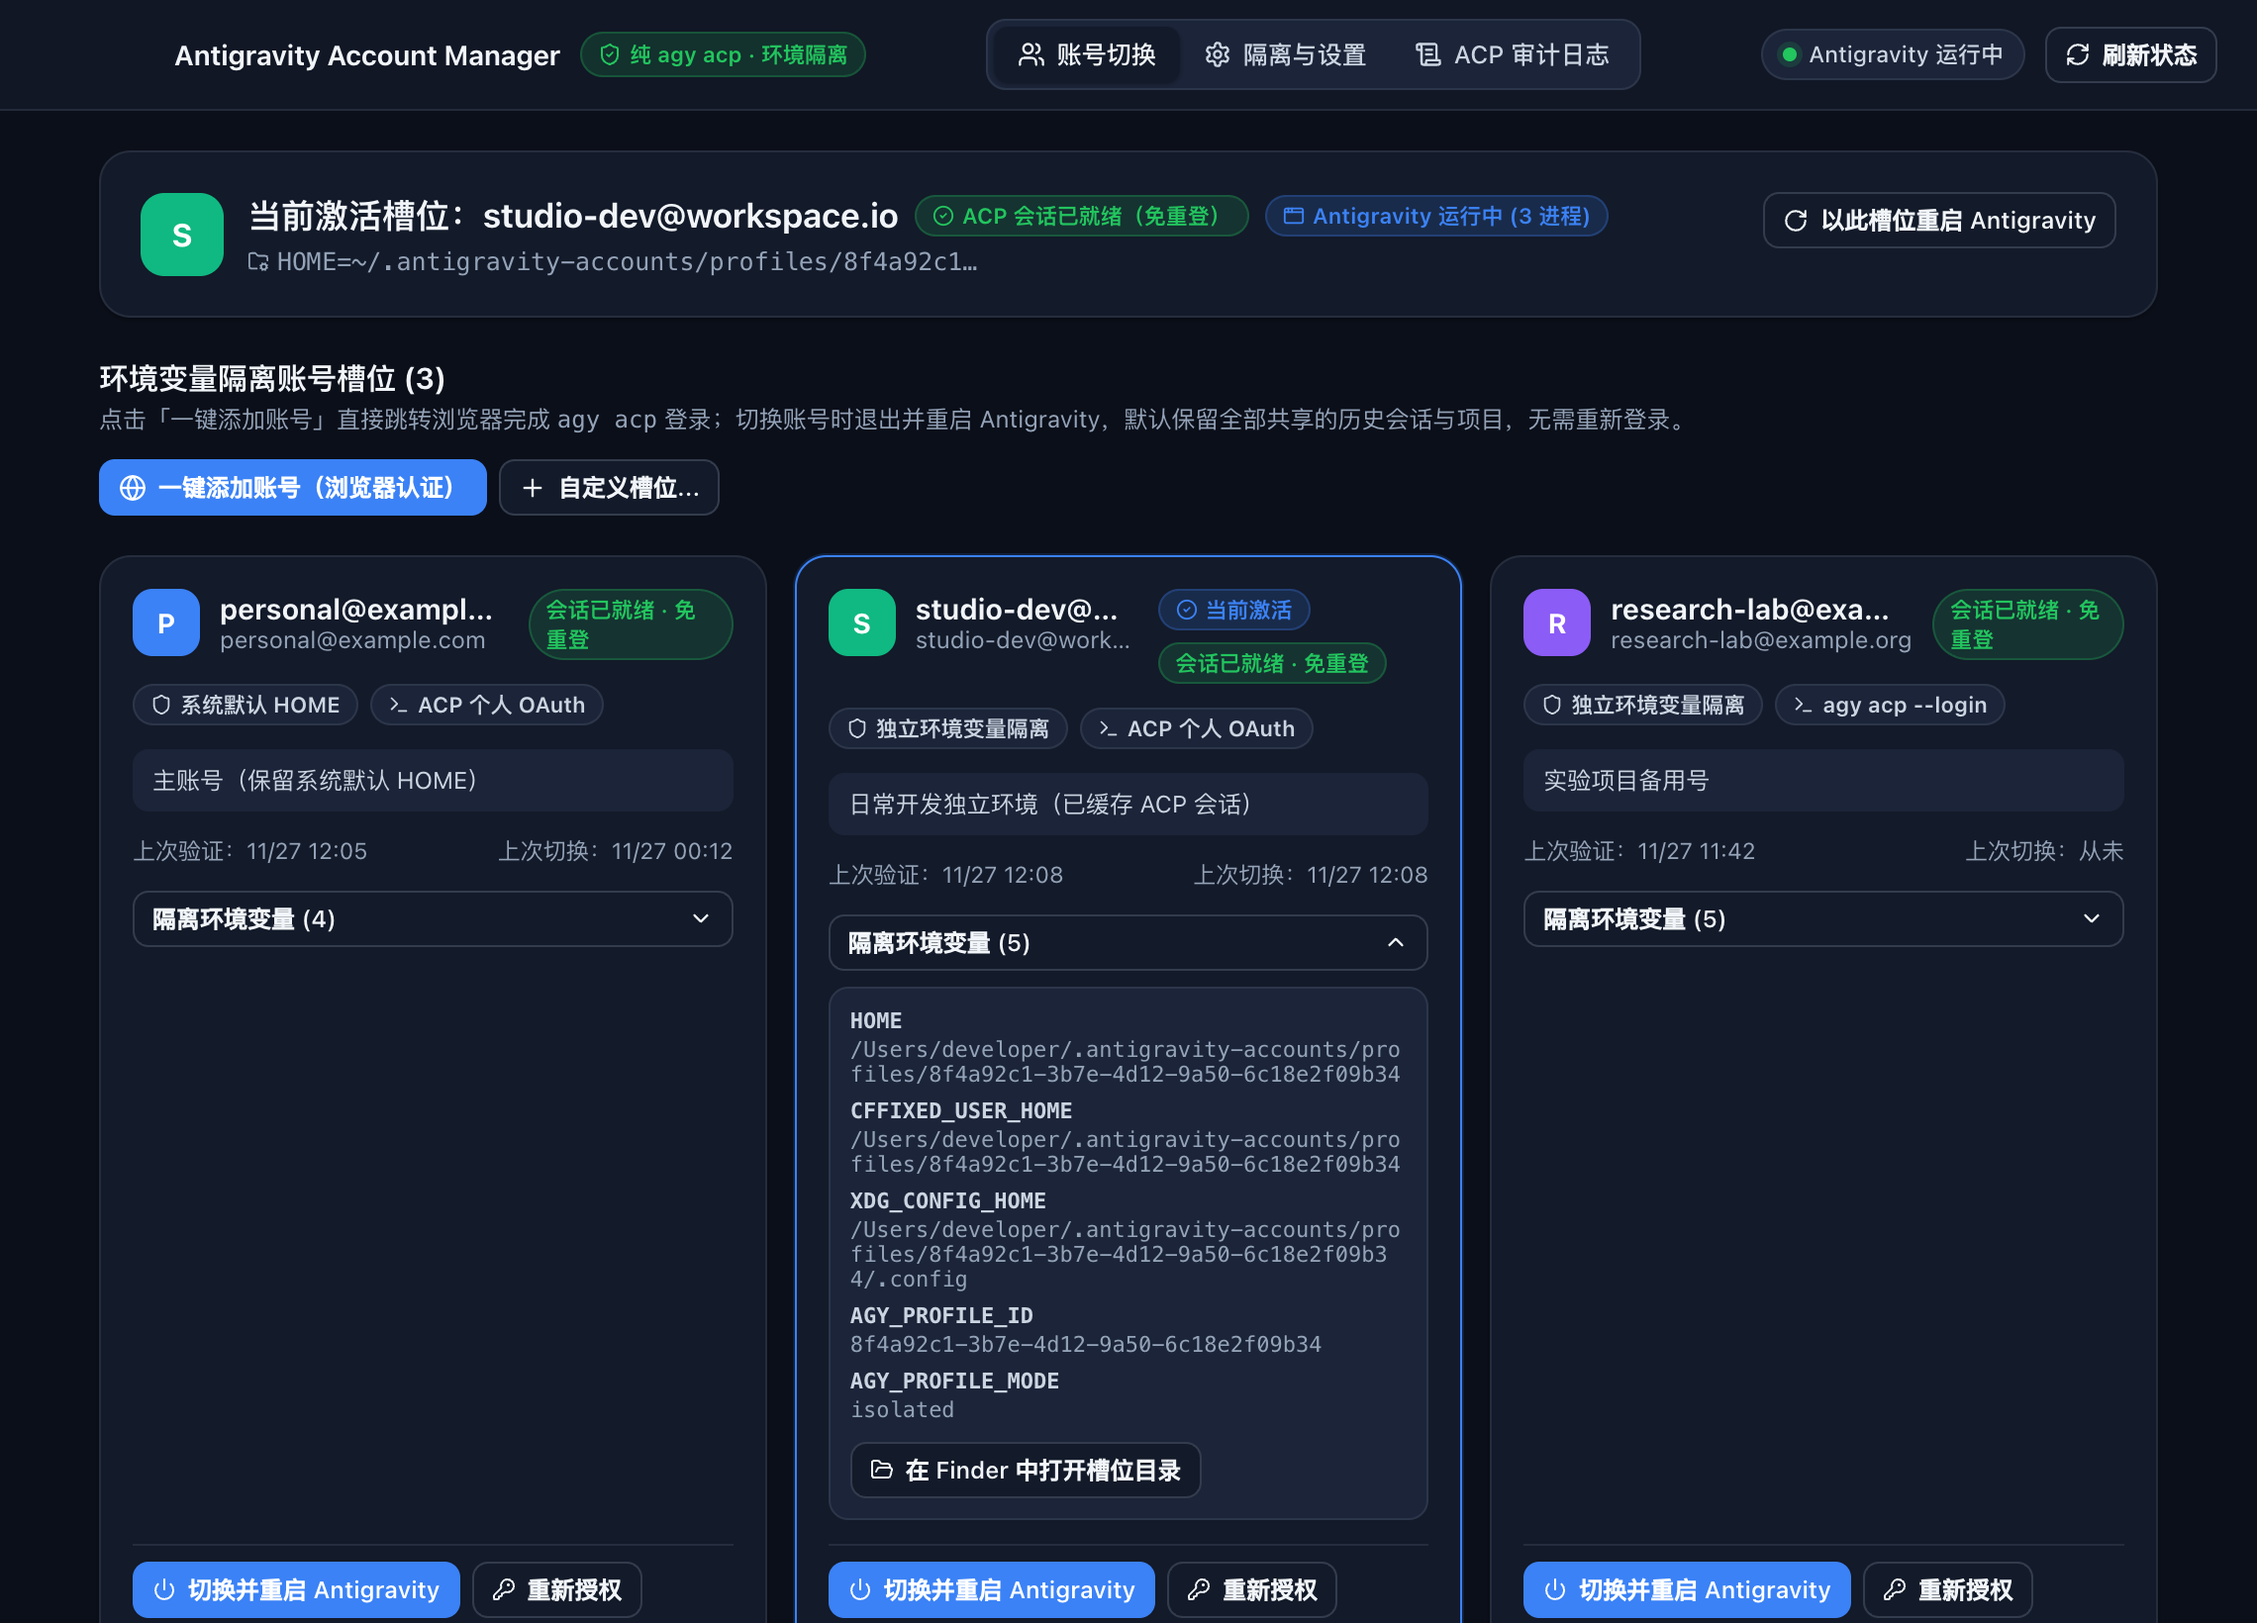
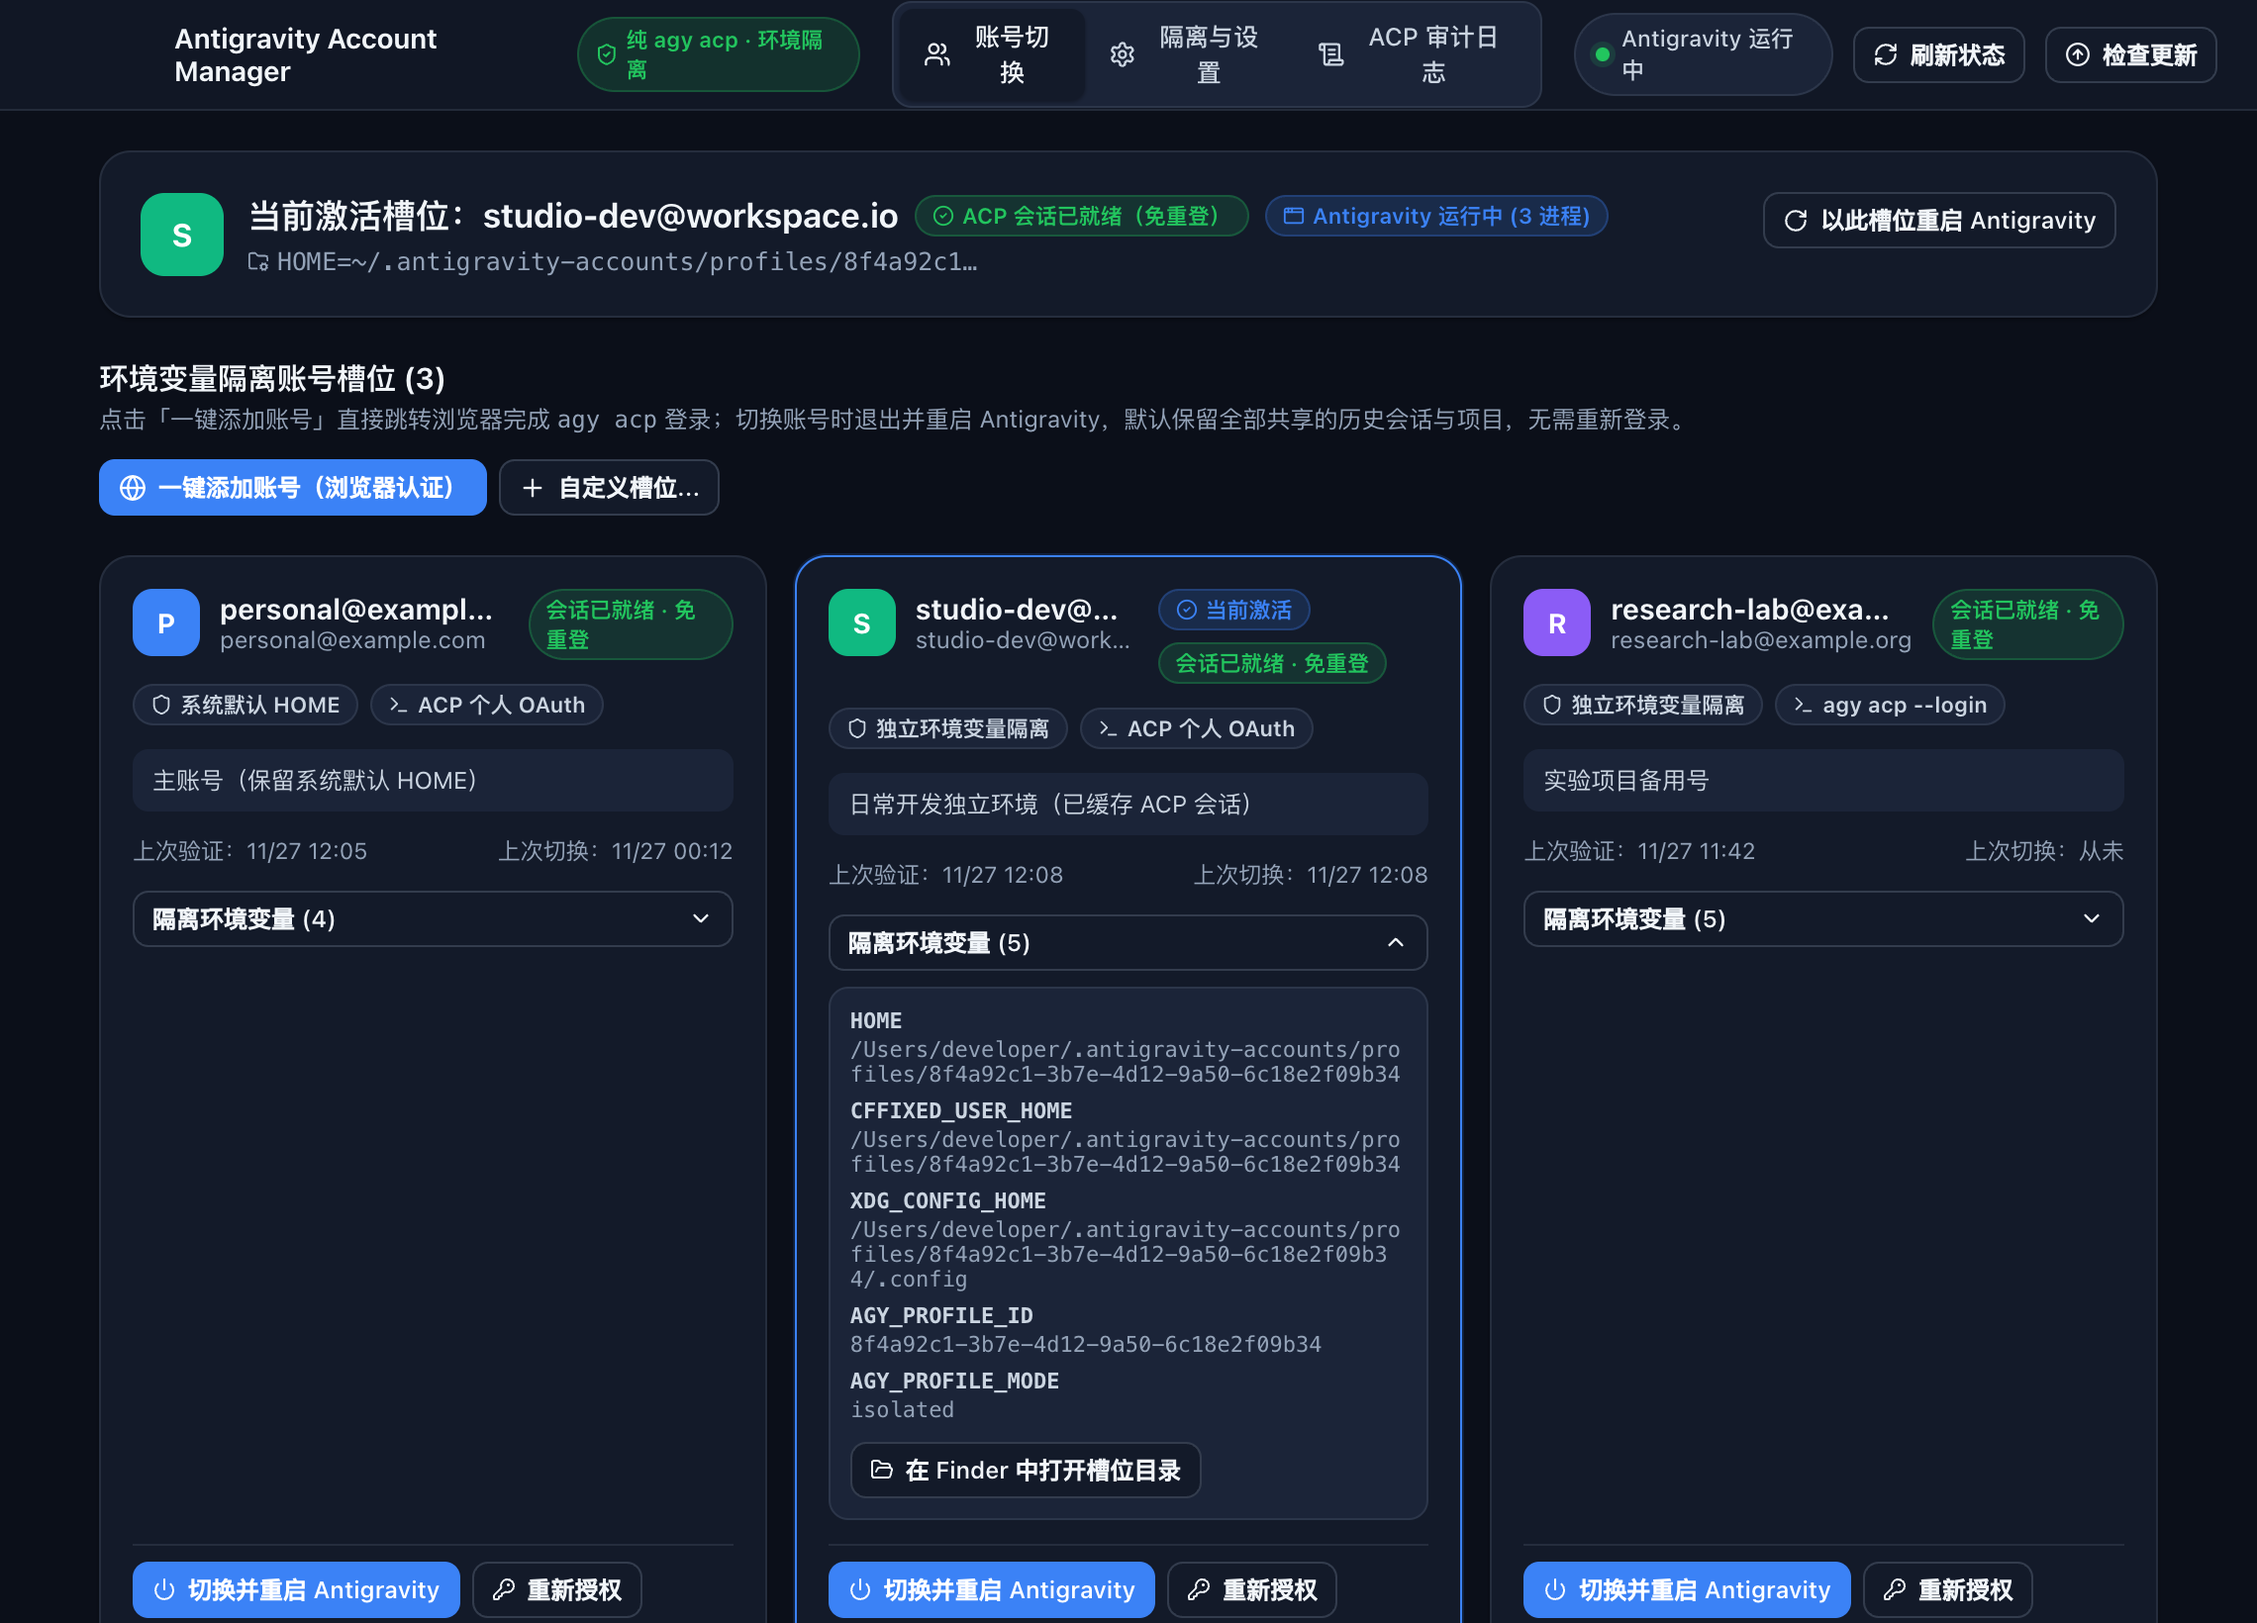
chore: release v1.0.3

diff --git a/README.md b/README.md
@@ -2,7 +2,7 @@
 
 <p align="left">
   <a href="https://github.com/feiyuggg/antigravity-account-manager/releases/latest">
-    <img src="https://img.shields.io/badge/release-v1.0.2-blue" alt="Latest Release v1.0.2" />
+    <img src="https://img.shields.io/badge/release-v1.0.3-blue" alt="Latest Release v1.0.3" />
   </a>
   <img src="https://img.shields.io/badge/platform-macOS%20arm64-0f172a" alt="macOS arm64" />
   <img src="https://img.shields.io/badge/auth-official%20agy%20acp-10b981" alt="Official agy acp" />
@@ -33,8 +33,12 @@
   为每个隔离槽位分配独立的 `HOME`、`CFFIXED_USER_HOME`、`XDG_*` 目录以及独立的 `login.keychain-db`。登录凭证相互隔离互不覆盖，切号时只需优雅退出 Antigravity 并以目标环境重启，立即免重登进入对应账号。
 - **纯正 `agy acp` 认证 & 邮箱自动识别**：
   点击「一键添加账号（浏览器认证）」直接通过官方 `agy acp` 拉起 OAuth 流程（同时支持 `agy acp --login` 终端授权码与企业 Cloud OAuth），认证完成后自动探测账号邮箱并生成不重名的友好槽位名。
-- **跨账号保留历史会话、项目与全局配置**：
-  自动将主目录的对话（`conversations`、`brain`、`annotations`、`scratch`）、项目列表（`projects`）、`mcp_config.json` 及全局 `skills` / `plugins` / `rules` 安全软链接至隔离环境（认证目录绝不共享），切号后历史会话无缝续聊。
+- **跨账号保留完整历史会话、项目与全局配置**：
+  自动将主目录的对话数据（`conversations`、`brain`、`annotations`、`scratch`、`chapter_titles`）、历史会话索引库（`conversation_summaries.db`、`agyhub_summaries_proto.pb`）、项目列表（`projects`）、`mcp_config.json` 及全局 `skills` / `plugins` / `rules` 安全汇总并软链接至每个隔离槽位（认证凭据绝不共享），切号或新增账号后历史会话完整可见、无缝续聊。
+- **手动重开防切回 & 真实运行环境检测**：
+  实时检测运行中 Antigravity 的 `--user-data-dir`，并在开启「保持已选账号」时，自动拦截并恢复从程序坞 / Spotlight 手动重开导致的默认账号回退；若环境不一致也会在面板直接提醒并提供一键恢复/同步。
+- **GitHub 一键检查更新 & 自动覆盖升级**：
+  内置 GitHub Releases 检查与自动更新器（顶部栏、设置页、状态栏菜单均可触发），自动校验 `SHA-256` 与代码签名并完成应用替换重启。
 - **CDP 启动参数透传 & 第三方插件自动重挂载**：
   完整支持 `--remote-debugging-port=58321` 等自定义启动参数，支持为 `antigravity-context-viewer` 或 [`obsidian-prism`](https://github.com/abhiman1206/obsidian-prism) 等基于 CDP 的插件配置多条「重启后自动执行命令」：切号重启时自动同步 `DevToolsActivePort`、等待工作台 CDP 页面就绪、前置现代 Node 22+ 路径并按顺序挂载扩展，支持在设置页一键「立即执行命令」。
 - **极简 macOS 状态栏托盘**：
@@ -74,8 +78,8 @@ flowchart LR
 
 前往 [Releases 页面](https://github.com/feiyuggg/antigravity-account-manager/releases) 下载最新安装包：
 
-- `Antigravity-Account-Manager-1.0.2-macOS-arm64.dmg`（推荐，打开后拖入 `Applications`）
-- 或 `Antigravity-Account-Manager-1.0.2-macOS-arm64.zip`
+- `Antigravity-Account-Manager-1.0.3-macOS-arm64.dmg`（推荐，打开后拖入 `Applications`）
+- 或 `Antigravity-Account-Manager-1.0.3-macOS-arm64.zip`
 
 > **首次打开提示处理**：当前 Release 使用本地 ad-hoc 签名（未经 Apple 公证）。若拖入 `/Applications` 后首次打开提示「无法验证开发者」或「已损坏」，请在终端执行一次：
 > ```bash
